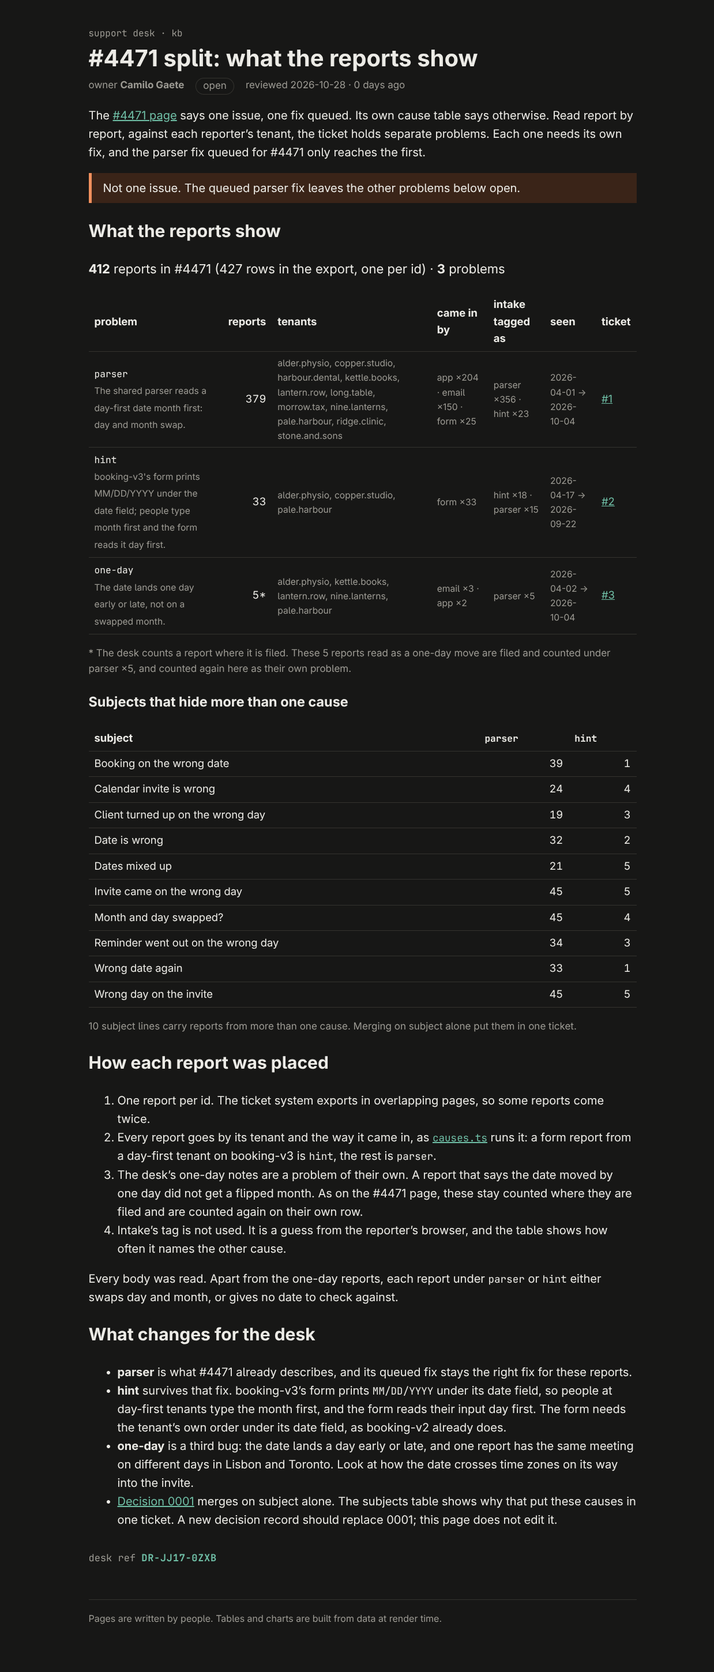
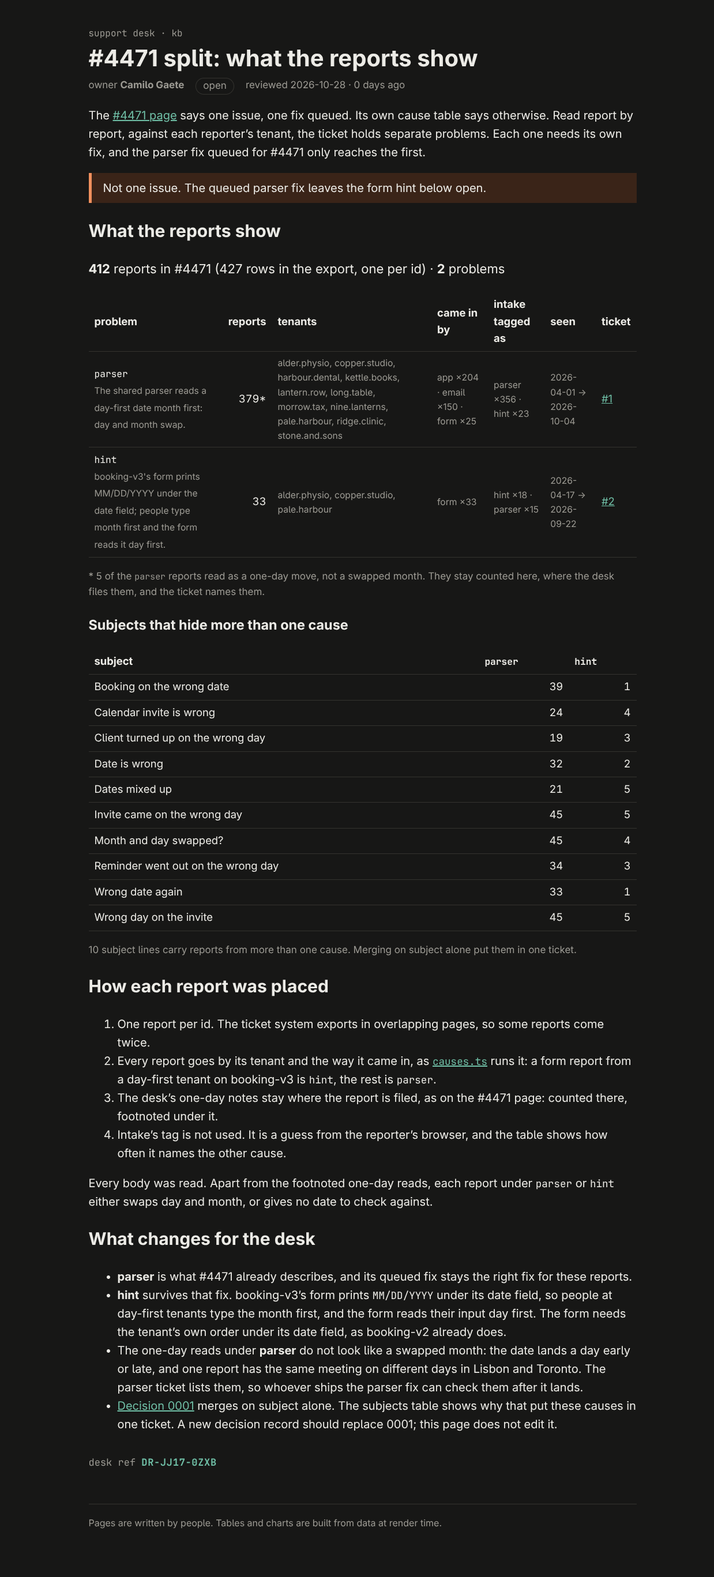
Keep the one-day reads under parser, as the desk files them
#4471's own cause table has two causes; the desk's one-day notes are a
footnote under parser, not a cause. The page now shows parser 379 with
the five one-day reads footnoted, and hint 33.

diff --git a/rendered/kb/incidents/4471-split/index.html b/rendered/kb/incidents/4471-split/index.html
@@ -9,11 +9,11 @@
 		<link href="../../../_app/immutable/chunks/B2Ul7l_u.js" rel="modulepreload">
 		<link href="../../../_app/immutable/chunks/BCPXOG7W.js" rel="modulepreload">
 		<link href="../../../_app/immutable/chunks/Dh1V97Jm.js" rel="modulepreload">
-		<link href="../../../_app/immutable/entry/app.DWi5CgX0.js" rel="modulepreload">
+		<link href="../../../_app/immutable/entry/app.DTWlAb-j.js" rel="modulepreload">
 		<link href="../../../_app/immutable/nodes/0.BurGglGN.js" rel="modulepreload">
 		<link href="../../../_app/immutable/chunks/DK3Fl9T5.js" rel="modulepreload">
-		<link href="../../../_app/immutable/nodes/5.BMO0CVSc.js" rel="modulepreload">
-		<link href="../../../_app/immutable/chunks/DR4YT4Rf.js" rel="modulepreload">
+		<link href="../../../_app/immutable/nodes/5.BNXHBjAK.js" rel="modulepreload">
+		<link href="../../../_app/immutable/chunks/kmhlJnUT.js" rel="modulepreload">
 		<link href="../../../_app/immutable/chunks/BTPwLomz.js" rel="modulepreload">
 		<link href="../../../_app/immutable/chunks/CVBzP17p.js" rel="modulepreload">
 		<link href="../../../_app/immutable/chunks/ChW0qkP-.js" rel="modulepreload">
@@ -25,32 +25,31 @@
   <body data-sveltekit-preload-data="hover">
     <div style="display: contents"><!--[--><!--[--><!--[0--><!--[--><!--[--><!--[-1--><!--[--><div class="kb svelte-e2jw2j"><header><a class="crumb svelte-e2jw2j" href="/kb">support desk · kb</a> <h1 class="svelte-e2jw2j">#4471 split: what the reports show</h1> <p class="meta svelte-e2jw2j"><span>owner <b>Camilo Gaete</b></span> <span class="status open svelte-e2jw2j">open</span> <span class="svelte-e2jw2j">reviewed 2026-10-28 · 0 days ago</span></p></header> <!--[-1--><!--]--> <main><p>The <a href="/kb/incidents/4471">#4471 page</a> says one issue, one fix queued. Its own cause table says
 otherwise. Read report by report, against each reporter’s tenant, the ticket holds separate
-problems. Each one needs its own fix, and the parser fix queued for #4471 only reaches the first.</p> <aside class="warn svelte-17bri61"><!---->Not one issue. The queued parser fix leaves the other problems below open.<!----></aside><!----> <h2>What the reports show</h2> <p class="sum svelte-1op6c6"><strong>412</strong> reports in #4471 (427 rows in the export, one per id) · <strong>3</strong> problems</p> <table><thead><tr><th>problem</th><th>reports</th><th>tenants</th><th>came in by</th><th>intake tagged as</th><th>seen</th><th>ticket</th></tr></thead><tbody><!--[--><tr><td><code>parser</code> <!--[0--><br/><span class="what svelte-1op6c6">The shared parser reads a day-first date month first: day and month swap.</span><!--]--></td><td class="n svelte-1op6c6">379<!--[-1--><!--]--></td><td class="list svelte-1op6c6">alder.physio, copper.studio, harbour.dental, kettle.books, lantern.row, long.table, morrow.tax, nine.lanterns, pale.harbour, ridge.clinic, stone.and.sons</td><td class="list svelte-1op6c6">app ×204 · email ×150 · form ×25</td><td class="list svelte-1op6c6">parser ×356 · hint ×23</td><td class="list svelte-1op6c6">2026-04-01 → 2026-10-04</td><td><!--[0--><a href="https://github.com/CamiloGaete/support-kb-4471/issues/1">#1</a><!--]--></td></tr><tr><td><code>hint</code> <!--[0--><br/><span class="what svelte-1op6c6">booking-v3's form prints MM/DD/YYYY under the date field; people type month first and the form reads it day first.</span><!--]--></td><td class="n svelte-1op6c6">33<!--[-1--><!--]--></td><td class="list svelte-1op6c6">alder.physio, copper.studio, pale.harbour</td><td class="list svelte-1op6c6">form ×33</td><td class="list svelte-1op6c6">hint ×18 · parser ×15</td><td class="list svelte-1op6c6">2026-04-17 → 2026-09-22</td><td><!--[0--><a href="https://github.com/CamiloGaete/support-kb-4471/issues/2">#2</a><!--]--></td></tr><tr><td><code>one-day</code> <!--[0--><br/><span class="what svelte-1op6c6">The date lands one day early or late, not on a swapped month.</span><!--]--></td><td class="n svelte-1op6c6">5<!--[0-->*<!--]--></td><td class="list svelte-1op6c6">alder.physio, kettle.books, lantern.row, nine.lanterns, pale.harbour</td><td class="list svelte-1op6c6">email ×3 · app ×2</td><td class="list svelte-1op6c6">parser ×5</td><td class="list svelte-1op6c6">2026-04-02 → 2026-10-04</td><td><!--[0--><a href="https://github.com/CamiloGaete/support-kb-4471/issues/3">#3</a><!--]--></td></tr><!--]--></tbody></table> <!--[0--><p class="note svelte-1op6c6">* The desk counts a report where it is filed. These 5 reports read as a one-day move are filed and
-    counted under parser ×5, and counted again here as their own problem.</p><!--]--> <h3>Subjects that hide more than one cause</h3> <table><thead><tr><th>subject</th><!--[--><th><code>parser</code></th><th><code>hint</code></th><!--]--></tr></thead><tbody><!--[--><tr><td>Booking on the wrong date</td><!--[--><td class="n svelte-1op6c6">39</td><td class="n svelte-1op6c6">1</td><!--]--></tr><tr><td>Calendar invite is wrong</td><!--[--><td class="n svelte-1op6c6">24</td><td class="n svelte-1op6c6">4</td><!--]--></tr><tr><td>Client turned up on the wrong day</td><!--[--><td class="n svelte-1op6c6">19</td><td class="n svelte-1op6c6">3</td><!--]--></tr><tr><td>Date is wrong</td><!--[--><td class="n svelte-1op6c6">32</td><td class="n svelte-1op6c6">2</td><!--]--></tr><tr><td>Dates mixed up</td><!--[--><td class="n svelte-1op6c6">21</td><td class="n svelte-1op6c6">5</td><!--]--></tr><tr><td>Invite came on the wrong day</td><!--[--><td class="n svelte-1op6c6">45</td><td class="n svelte-1op6c6">5</td><!--]--></tr><tr><td>Month and day swapped?</td><!--[--><td class="n svelte-1op6c6">45</td><td class="n svelte-1op6c6">4</td><!--]--></tr><tr><td>Reminder went out on the wrong day</td><!--[--><td class="n svelte-1op6c6">34</td><td class="n svelte-1op6c6">3</td><!--]--></tr><tr><td>Wrong date again</td><!--[--><td class="n svelte-1op6c6">33</td><td class="n svelte-1op6c6">1</td><!--]--></tr><tr><td>Wrong day on the invite</td><!--[--><td class="n svelte-1op6c6">45</td><td class="n svelte-1op6c6">5</td><!--]--></tr><!--]--></tbody></table> <p class="note svelte-1op6c6">10 subject lines carry reports from more than one cause. Merging on subject alone put them in one ticket.</p><!----> <h2>How each report was placed</h2> <ol><li>One report per id. The ticket system exports in overlapping pages, so some reports come twice.</li> <li>Every report goes by its tenant and the way it came in, as <a href="https://github.com/CamiloGaete/support-kb-4471/blob/main/src/lib/kb/causes.ts" rel="nofollow"><code>causes.ts</code></a> runs it: a form
-report from a day-first tenant on booking-v3 is <code>hint</code>, the rest is <code>parser</code>.</li> <li>The desk’s one-day notes are a problem of their own. A report that says the date moved by one
-day did not get a flipped month. As on the #4471 page, these stay counted where they are filed
-and are counted again on their own row.</li> <li>Intake’s tag is not used. It is a guess from the reporter’s browser, and the table shows how
-often it names the other cause.</li></ol> <p>Every body was read. Apart from the one-day reports, each report under <code>parser</code> or <code>hint</code> either swaps day and month, or gives no date to check against.</p> <h2>What changes for the desk</h2> <ul><li><strong>parser</strong> is what #4471 already describes, and its queued fix stays the right fix for these
+problems. Each one needs its own fix, and the parser fix queued for #4471 only reaches the first.</p> <aside class="warn svelte-17bri61"><!---->Not one issue. The queued parser fix leaves the form hint below open.<!----></aside><!----> <h2>What the reports show</h2> <p class="sum svelte-1op6c6"><strong>412</strong> reports in #4471 (427 rows in the export, one per id) · <strong>2</strong> problems</p> <table><thead><tr><th>problem</th><th>reports</th><th>tenants</th><th>came in by</th><th>intake tagged as</th><th>seen</th><th>ticket</th></tr></thead><tbody><!--[--><tr><td><code>parser</code> <!--[0--><br/><span class="what svelte-1op6c6">The shared parser reads a day-first date month first: day and month swap.</span><!--]--></td><td class="n svelte-1op6c6">379<!--[0-->*<!--]--></td><td class="list svelte-1op6c6">alder.physio, copper.studio, harbour.dental, kettle.books, lantern.row, long.table, morrow.tax, nine.lanterns, pale.harbour, ridge.clinic, stone.and.sons</td><td class="list svelte-1op6c6">app ×204 · email ×150 · form ×25</td><td class="list svelte-1op6c6">parser ×356 · hint ×23</td><td class="list svelte-1op6c6">2026-04-01 → 2026-10-04</td><td><!--[0--><a href="https://github.com/CamiloGaete/support-kb-4471/issues/1">#1</a><!--]--></td></tr><tr><td><code>hint</code> <!--[0--><br/><span class="what svelte-1op6c6">booking-v3's form prints MM/DD/YYYY under the date field; people type month first and the form reads it day first.</span><!--]--></td><td class="n svelte-1op6c6">33<!--[-1--><!--]--></td><td class="list svelte-1op6c6">alder.physio, copper.studio, pale.harbour</td><td class="list svelte-1op6c6">form ×33</td><td class="list svelte-1op6c6">hint ×18 · parser ×15</td><td class="list svelte-1op6c6">2026-04-17 → 2026-09-22</td><td><!--[0--><a href="https://github.com/CamiloGaete/support-kb-4471/issues/2">#2</a><!--]--></td></tr><!--]--></tbody></table> <!--[--><p class="note svelte-1op6c6">* 5 of the <code>parser</code> reports read as a one-day move, not a swapped month. They stay counted
+    here, where the desk files them, and the ticket names them.</p><!--]--> <h3>Subjects that hide more than one cause</h3> <table><thead><tr><th>subject</th><!--[--><th><code>parser</code></th><th><code>hint</code></th><!--]--></tr></thead><tbody><!--[--><tr><td>Booking on the wrong date</td><!--[--><td class="n svelte-1op6c6">39</td><td class="n svelte-1op6c6">1</td><!--]--></tr><tr><td>Calendar invite is wrong</td><!--[--><td class="n svelte-1op6c6">24</td><td class="n svelte-1op6c6">4</td><!--]--></tr><tr><td>Client turned up on the wrong day</td><!--[--><td class="n svelte-1op6c6">19</td><td class="n svelte-1op6c6">3</td><!--]--></tr><tr><td>Date is wrong</td><!--[--><td class="n svelte-1op6c6">32</td><td class="n svelte-1op6c6">2</td><!--]--></tr><tr><td>Dates mixed up</td><!--[--><td class="n svelte-1op6c6">21</td><td class="n svelte-1op6c6">5</td><!--]--></tr><tr><td>Invite came on the wrong day</td><!--[--><td class="n svelte-1op6c6">45</td><td class="n svelte-1op6c6">5</td><!--]--></tr><tr><td>Month and day swapped?</td><!--[--><td class="n svelte-1op6c6">45</td><td class="n svelte-1op6c6">4</td><!--]--></tr><tr><td>Reminder went out on the wrong day</td><!--[--><td class="n svelte-1op6c6">34</td><td class="n svelte-1op6c6">3</td><!--]--></tr><tr><td>Wrong date again</td><!--[--><td class="n svelte-1op6c6">33</td><td class="n svelte-1op6c6">1</td><!--]--></tr><tr><td>Wrong day on the invite</td><!--[--><td class="n svelte-1op6c6">45</td><td class="n svelte-1op6c6">5</td><!--]--></tr><!--]--></tbody></table> <p class="note svelte-1op6c6">10 subject lines carry reports from more than one cause. Merging on subject alone put them in one ticket.</p><!----> <h2>How each report was placed</h2> <ol><li>One report per id. The ticket system exports in overlapping pages, so some reports come twice.</li> <li>Every report goes by its tenant and the way it came in, as <a href="https://github.com/CamiloGaete/support-kb-4471/blob/main/src/lib/kb/causes.ts" rel="nofollow"><code>causes.ts</code></a> runs it: a form
+report from a day-first tenant on booking-v3 is <code>hint</code>, the rest is <code>parser</code>.</li> <li>The desk’s one-day notes stay where the report is filed, as on the #4471 page: counted there,
+footnoted under it.</li> <li>Intake’s tag is not used. It is a guess from the reporter’s browser, and the table shows how
+often it names the other cause.</li></ol> <p>Every body was read. Apart from the footnoted one-day reads, each report under <code>parser</code> or <code>hint</code> either swaps day and month, or gives no date to check against.</p> <h2>What changes for the desk</h2> <ul><li><strong>parser</strong> is what #4471 already describes, and its queued fix stays the right fix for these
 reports.</li> <li><strong>hint</strong> survives that fix. booking-v3’s form prints <code>MM/DD/YYYY</code> under its date field, so
 people at day-first tenants type the month first, and the form reads their input day first.
-The form needs the tenant’s own order under its date field, as booking-v2 already does.</li> <li><strong>one-day</strong> is a third bug: the date lands a day early or late, and one report has the same
-meeting on different days in Lisbon and Toronto. Look at how the date crosses time zones on
-its way into the invite.</li> <li><a href="/kb/decisions/0001-dedupe-by-subject">Decision 0001</a> merges on subject alone. The subjects
+The form needs the tenant’s own order under its date field, as booking-v2 already does.</li> <li>The one-day reads under <strong>parser</strong> do not look like a swapped month: the date lands a day
+early or late, and one report has the same meeting on different days in Lisbon and Toronto.
+The parser ticket lists them, so whoever ships the parser fix can check them after it lands.</li> <li><a href="/kb/decisions/0001-dedupe-by-subject">Decision 0001</a> merges on subject alone. The subjects
 table shows why that put these causes in one ticket. A new decision record should replace
 0001; this page does not edit it.</li></ul> <!--[0--><p class="stamp svelte-1280m42">desk ref <b class="svelte-1280m42">DR-JJ17-0ZXB</b></p><!--]--><!----><!----></main> <footer class="svelte-e2jw2j">Pages are written by people. Tables and charts are built from data at render time.</footer></div><!--]--><!--]--><!--]--><!----><!--]--><!--]--><!--]--><!----> <!--[-1--><!--]--><!--]-->
 			
 			<script>
 				{
-					__sveltekit_miusty = {
+					__sveltekit_134p8fo = {
 						base: new URL("../../..", location).pathname.slice(0, -1),
-						version: "1793218786973"
+						version: "1793218984773"
 					};
 
 					const element = document.currentScript.parentElement;
 
 					import("../../../_app/immutable/entry/start.CH5w6lId.js").then(async (kit) => {
-						kit.init(__sveltekit_miusty);
-						const app = await import("../../../_app/immutable/entry/app.DWi5CgX0.js");
+						kit.init(__sveltekit_134p8fo);
+						const app = await import("../../../_app/immutable/entry/app.DTWlAb-j.js");
 						kit.start(app, element, {
 							node_ids: [0, 5],
 							data: [null,null],

diff --git a/rendered/_app/immutable/chunks/kmhlJnUT.js b/rendered/_app/immutable/chunks/kmhlJnUT.js
@@ -1,0 +1,14 @@
+import{t as e}from"./DK3Fl9T5.js";import{E as t,F as n,H as r,I as i,K as a,L as o,N as s,O as c,R as l,S as u,T as d,U as f,W as p,_ as m,c as h,h as g,k as _,n as v,q as y,r as b,t as x,w as S}from"./BCPXOG7W.js";import{t as C}from"./BTPwLomz.js";import{n as w,t as T}from"./CVBzP17p.js";import{i as E,o as D,r as O,s as k,t as A,u as j}from"./ChW0qkP-.js";var M={parser:`The shared parser reads a day-first date month first: day and month swap.`,hint:`booking-v3's form prints MM/DD/YYYY under the date field; people type month first and the form reads it day first.`},N=(e,t)=>e.reduce((e,n)=>({...e,[t(n)]:(e[t(n)]??0)+1}),{});function P(e,t,n,r){let i=j(e).filter(e=>e.mergedInto===t),a=D(i,n),o=new Map(a.flatMap(e=>e.reports.map(t=>[t.id,e.cause]))),s=a.map(e=>({problem:e.cause,reports:e.reports,tenants:[...new Set(e.reports.map(e=>e.tenant))].sort(),channels:N(e.reports,e=>e.channel),taggedAs:e.taggedAs,firstSeen:e.firstSeen,lastSeen:e.lastSeen,readAsOneDay:k(e,r)})),c=new Map;for(let e of i){let t=c.get(e.subject)??{},n=o.get(e.id);t[n]=(t[n]??0)+1,c.set(e.subject,t)}let l=[...c.entries()].filter(([,e])=>Object.keys(e).length>1).map(([e,t])=>({subject:e,byCause:t})).sort((e,t)=>e.subject.localeCompare(t.subject));return{rows:e.filter(e=>e.mergedInto===t).length,unique:i.length,groups:s,sharedSubjects:l}}var F=t(`<br/><span class="what svelte-1op6c6"> </span>`,1),I=t(`<a> </a>`),ee=t(`<span class="none svelte-1op6c6">none yet</span>`),te=t(`<tr><td><code> </code> <!></td><td class="n svelte-1op6c6"> <!></td><td class="list svelte-1op6c6"> </td><td class="list svelte-1op6c6"> </td><td class="list svelte-1op6c6"> </td><td class="list svelte-1op6c6"> </td><td><!></td></tr>`),L=t(`<p class="note svelte-1op6c6"> <code> </code> reports read as a one-day move, not a swapped month. They stay counted
+    here, where the desk files them, and the ticket names them.</p>`),R=t(`<th><code> </code></th>`),z=t(`<td class="n svelte-1op6c6"> </td>`),B=t(`<tr><td> </td><!></tr>`),V=t(`<p class="sum svelte-1op6c6"><strong> </strong> <strong> </strong> </p> <table><thead><tr><th>problem</th><th>reports</th><th>tenants</th><th>came in by</th><th>intake tagged as</th><th>seen</th><th>ticket</th></tr></thead><tbody></tbody></table> <!> <h3>Subjects that hide more than one cause</h3> <table><thead><tr><th>subject</th><!></tr></thead><tbody></tbody></table> <p class="note svelte-1op6c6"> </p>`,1);function H(e,t){p(t,!0);let d=v(t,`issues`,19,()=>({})),b=r(()=>P(w,t.ticket,O,T.oneDayMove)),x=e=>Object.entries(e).sort((e,t)=>t[1]-e[1]).map(([e,t])=>`${e} ×${t}`).join(` · `),C=e=>`#${e.split(`/`).pop()}`,D=r(()=>E.filter(e=>_(b).groups.some(t=>t.problem===e)));var k=V(),A=i(k),j=n(A),N=o(j,!0),H=l(j),U=l(H),W=o(U,!0),G=l(U);y(A);var K=l(A,2),q=l(n(K));g(q,21,()=>_(b).groups,e=>e.problem,(e,t)=>{var r=te(),a=n(r),f=n(a),p=o(f,!0),g=l(f,2),v=e=>{var n=F(),r=l(i(n)),a=o(r,!0);s(()=>u(a,M[_(t).problem])),S(e,n)};m(g,e=>{_(t).problem!==`unplaced`&&e(v)}),y(a);var b=l(a),w=n(b,!0),T=l(w),E=e=>{var t=c(`*`);S(e,t)};m(T,e=>{_(t).readAsOneDay&&e(E)}),y(b);var D=l(b),O=o(D,!0),k=l(D),A=o(k,!0),j=l(k),N=o(j,!0),P=l(j),L=o(P),R=l(P),z=n(R),B=e=>{var n=I(),r=o(n,!0);s(e=>{h(n,`href`,d()[_(t).problem]),u(r,e)},[()=>C(d()[_(t).problem])]),S(e,n)},V=e=>{var t=ee();S(e,t)};m(z,e=>{d()[_(t).problem]?e(B):e(V,-1)}),y(R),y(r),s((e,n,r)=>{u(p,_(t).problem),u(w,_(t).reports.length),u(O,e),u(A,n),u(N,r),u(L,`${_(t).firstSeen??``} → ${_(t).lastSeen??``}`)},[()=>_(t).tenants.join(`, `),()=>x(_(t).channels),()=>x(_(t).taggedAs)]),S(e,r)}),y(q),y(K);var J=l(K,2);g(J,17,()=>_(b).groups.filter(e=>e.readAsOneDay),e=>e.problem,(e,t)=>{var r=L(),i=n(r),c=l(i),d=o(c,!0);a(),y(r),s(()=>{u(i,`* ${_(t).readAsOneDay??``} of the `),u(d,_(t).problem)}),S(e,r)});var Y=l(J,4),X=n(Y),Z=n(X),ne=l(n(Z));g(ne,16,()=>_(D),e=>e,(e,t)=>{var r=R(),i=n(r),a=o(i,!0);y(r),s(()=>u(a,t)),S(e,r)}),y(Z),y(X);var Q=l(X);g(Q,21,()=>_(b).sharedSubjects,e=>e.subject,(e,t)=>{var r=B(),i=n(r),a=o(i,!0),c=l(i);g(c,16,()=>_(D),e=>e,(e,n)=>{var r=z(),i=o(r,!0);s(()=>u(i,_(t).byCause[n]??``)),S(e,r)}),y(r),s(()=>u(a,_(t).subject)),S(e,r)}),y(Q),y(Y);var re=l(Y,2),ie=o(re);s(()=>{u(N,_(b).unique),u(H,` reports in #${t.ticket??``} (${_(b).rows??``} rows in the export, one per id) · `),u(W,_(b).groups.length),u(G,` ${_(b).groups.length===1?`problem`:`problems`}`),u(ie,`${_(b).sharedSubjects.length??``} subject lines carry reports from more than one cause. Merging on subject alone put them in one ticket.`)}),S(e,k),f()}var U=`0123456789ABCDEFGHJKMNPQRSTVWXYZ`;function W(e,t){let n=t>>>0;for(let t=0;t<e.length;t++)n^=e.charCodeAt(t),n=Math.imul(n,16777619)>>>0;return n}function G(e){let t=e.trim(),n=W(t,2166136261),r=W(t,2654435769),i=BigInt(n)<<8n|BigInt(r&255),a=``;for(let e=0;e<8;e++)a=U[Number(i&31n)]+a,i>>=5n;return`DR-${a.slice(0,4)}-${a.slice(4)}`}var K=t(`<p class="stamp svelte-1280m42">desk ref <b class="svelte-1280m42"> </b></p>`),q=t(`<p class="stamp missing svelte-1280m42">no desk ref: this page isn't signed (no <code>signature</code> in its frontmatter)</p>`);function J(e,t){p(t,!0);let a=r(()=>t.signature?G(t.signature):null);var c=d(),h=i(c),g=e=>{var t=K(),r=l(n(t)),i=o(r,!0);y(t),s(()=>u(i,_(a))),S(e,t)},v=e=>{var t=q();S(e,t)};m(h,e=>{_(a)?e(g):e(v,-1)}),S(e,c),f()}var Y=e({default:()=>$,metadata:()=>X}),X={layout:`runbook`,title:`#4471 split: what the reports show`,owner:`Camilo Gaete`,status:`open`,reviewed:`2026-10-28T00:00:00.000Z`,signature:`v1.eyJzdWIiOiIzMDIiLCJhdWQiOiJjaGFsbGVuZ2U6d2hhdC1pdC1zaG93cyIsImlhdCI6MTc5MzIxODI1NywiZXhwIjoxNzkzMzA0NjU3fQ.ib5O7nSz4A4s80pjVwiKF3khW6C-5l8RFRv_YjpKHjs`},{layout:Z,title:ne,owner:Q,status:re,reviewed:ie,signature:ae}=X,oe=t(`<p>The <a href="/kb/incidents/4471">#4471 page</a> says one issue, one fix queued. Its own cause table says
+otherwise. Read report by report, against each reporter’s tenant, the ticket holds separate
+problems. Each one needs its own fix, and the parser fix queued for #4471 only reaches the first.</p> <!> <h2>What the reports show</h2> <!> <h2>How each report was placed</h2> <ol><li>One report per id. The ticket system exports in overlapping pages, so some reports come twice.</li> <li>Every report goes by its tenant and the way it came in, as <a href="https://github.com/CamiloGaete/support-kb-4471/blob/main/src/lib/kb/causes.ts" rel="nofollow"><code>causes.ts</code></a> runs it: a form
+report from a day-first tenant on booking-v3 is <code>hint</code>, the rest is <code>parser</code>.</li> <li>The desk’s one-day notes stay where the report is filed, as on the #4471 page: counted there,
+footnoted under it.</li> <li>Intake’s tag is not used. It is a guess from the reporter’s browser, and the table shows how
+often it names the other cause.</li></ol> <p>Every body was read. Apart from the footnoted one-day reads, each report under <code>parser</code> or <code>hint</code> either swaps day and month, or gives no date to check against.</p> <h2>What changes for the desk</h2> <ul><li><strong>parser</strong> is what #4471 already describes, and its queued fix stays the right fix for these
+reports.</li> <li><strong>hint</strong> survives that fix. booking-v3’s form prints <code>MM/DD/YYYY</code> under its date field, so
+people at day-first tenants type the month first, and the form reads their input day first.
+The form needs the tenant’s own order under its date field, as booking-v2 already does.</li> <li>The one-day reads under <strong>parser</strong> do not look like a swapped month: the date lands a day
+early or late, and one report has the same meeting on different days in Lisbon and Toronto.
+The parser ticket lists them, so whoever ships the parser fix can check them after it lands.</li> <li><a href="/kb/decisions/0001-dedupe-by-subject">Decision 0001</a> merges on subject alone. The subjects
+table shows why that put these causes in one ticket. A new decision record should replace
+0001; this page does not edit it.</li></ul> <!>`,1);function $(e,t){let n=x(t,[`children`,`$$slots`,`$$events`,`$$legacy`]),r=`https://github.com/CamiloGaete/support-kb-4471`;C(e,b(()=>n,()=>X,{children:(e,t)=>{var n=oe(),o=l(i(n),2);A(o,{kind:`warn`,children:(e,t)=>{a();var n=c(`Not one issue. The queued parser fix leaves the form hint below open.`);S(e,n)},$$slots:{default:!0}});var s=l(o,4);H(s,{ticket:4471,issues:{parser:`${r}/issues/1`,hint:`${r}/issues/2`}}),J(l(s,12),{get signature(){return ae}}),S(e,n)},$$slots:{default:!0}}))}export{$ as n,Y as t};

diff --git a/src/lib/kb/problems.ts b/src/lib/kb/problems.ts
@@ -1,19 +1,15 @@
-// What #4471 holds, problem by problem. causes.ts sorts a report by its tenant; the desk's notes add
-// what it read in the body: a one-day move is not a flipped month. Like CauseTable, a noted report
-// stays counted where it is filed, and the one-day row counts it again on its own.
-import { CAUSES, groupByCause, uniqueById, type Cause, type Report, type Tenant } from '#lib/kb/causes';
+// What #4471 holds, problem by problem: one per cause, as causes.ts sorts a report by its tenant.
+// Like CauseTable, a report the desk read differently (desk-notes.json) stays counted where it is
+// filed, and is footnoted under it.
+import { groupByCause, readAs, uniqueById, type CauseGroup, type Cause, type Report, type Tenant } from '#lib/kb/causes';
 
-export type Problem = Cause | 'one-day';
-export const PROBLEMS: readonly Problem[] = [...CAUSES, 'one-day'];
-
-export const WHAT_GOES_WRONG: Record<Problem, string> = {
+export const WHAT_GOES_WRONG: Record<Cause, string> = {
   parser: 'The shared parser reads a day-first date month first: day and month swap.',
   hint: "booking-v3's form prints MM/DD/YYYY under the date field; people type month first and the form reads it day first.",
-  'one-day': 'The date lands one day early or late, not on a swapped month.',
 };
 
 export type ProblemGroup = {
-  problem: Problem | 'unplaced';
+  problem: Cause | 'unplaced';
   reports: Report[];
   tenants: string[];
   channels: Record<string, number>;
@@ -21,8 +17,8 @@ export type ProblemGroup = {
   taggedAs: Record<string, number>;
   firstSeen: string;
   lastSeen: string;
-  // For the one-day row: the cause each of its reports is filed and counted under.
-  filedUnder: Record<string, number>;
+  // Of these, reports the desk read as a one-day move instead of a swapped month.
+  readAsOneDay: number;
 };
 
 export type Split = {
@@ -46,22 +42,18 @@ export function splitTicket(
   const causeGroups = groupByCause(merged, tenantOf);
   const causeOfReport = new Map(causeGroups.flatMap((g) => g.reports.map((r) => [r.id, g.cause] as const)));
 
-  const group = (problem: ProblemGroup['problem'], rs: Report[]): ProblemGroup => {
-    const days = rs.map((r) => r.receivedAt.slice(0, 10)).sort();
-    return {
-      problem,
-      reports: rs,
-      tenants: [...new Set(rs.map((r) => r.tenant))].sort(),
-      channels: tally(rs, (r) => r.channel),
-      taggedAs: tally(rs, (r) => r.meta.intakeTag),
-      firstSeen: days[0],
-      lastSeen: days[days.length - 1],
-      filedUnder: problem === 'one-day' ? tally(rs, (r) => causeOfReport.get(r.id)!) : {},
-    };
-  };
+  const group = (g: CauseGroup): ProblemGroup => ({
+    problem: g.cause,
+    reports: g.reports,
+    tenants: [...new Set(g.reports.map((r) => r.tenant))].sort(),
+    channels: tally(g.reports, (r) => r.channel),
+    taggedAs: g.taggedAs,
+    firstSeen: g.firstSeen,
+    lastSeen: g.lastSeen,
+    readAsOneDay: readAs(g, oneDayMove),
+  });
 
-  const oneDay = merged.filter((r) => oneDayMove.includes(r.id));
-  const groups = [...causeGroups.map((g) => group(g.cause, g.reports)), ...(oneDay.length ? [group('one-day', oneDay)] : [])];
+  const groups = causeGroups.map(group);
 
   const bySubject = new Map<string, Partial<Record<Cause | 'unplaced', number>>>();
   for (const r of merged) {

diff --git a/rendered/_app/immutable/nodes/2.7iZpjp-K.js b/rendered/_app/immutable/nodes/2.7iZpjp-K.js
@@ -1,0 +1,2 @@
+import{E as e,F as t,I as n,K as r,L as i,N as a,R as o,S as s,U as c,W as l,c as u,d,h as f,i as p,k as m,q as h,r as g,t as _,w as v}from"../chunks/BCPXOG7W.js";import{n as y,r as b,t as x}from"../chunks/BTPwLomz.js";import{t as S}from"../chunks/YX22L_Ud.js";import{t as C}from"../chunks/BBi_nMUZ.js";import{t as w}from"../chunks/kmhlJnUT.js";import{t as T}from"../chunks/C38Lczqj.js";var E=e(`<tr><td><a> </a></td><td> </td><td> </td><td> </td></tr>`),D=e(`<table><thead><tr><th>page</th><th>owner</th><th>status</th><th>reviewed</th></tr></thead><tbody></tbody></table>`);function O(e,n){l(n,!1);let r=Object.entries(Object.assign({"/src/routes/kb/decisions/0001-dedupe-by-subject/+page.svx":S,"/src/routes/kb/incidents/4471/+page.svx":C,"/src/routes/kb/incidents/4471-split/+page.svx":w,"/src/routes/kb/triage/dedupe/+page.svx":T})).map(([e,t])=>({href:e.replace(`/src/routes`,``).replace(`/+page.svx`,``),...t.metadata})).sort((e,t)=>e.href.localeCompare(t.href));p();var g=D(),_=o(t(g));f(_,5,()=>r,e=>e.href,(e,n)=>{var r=E(),c=t(r),l=t(c),f=i(l,!0);h(c);var p=o(c),g=i(p,!0),_=o(p),x=i(_,!0),S=o(_);let C;var w=i(S,!0);h(r),a((e,t)=>{u(l,`href`,m(n).href),s(f,m(n).title),s(g,m(n).owner),s(x,m(n).status),C=d(S,1,`svelte-tbc1ha`,null,C,{stale:e}),s(w,t)},[()=>y(m(n).reviewed)>180,()=>b(m(n).reviewed)]),v(e,r)}),h(_),h(g),v(e,g),c()}var k={layout:`runbook`,title:`Support knowledge base`,owner:`support desk`,status:`living`,reviewed:`2026-09-28T00:00:00.000Z`},{layout:A,title:j,owner:M,status:N,reviewed:P}=k,F=e(`<p>What the support desk knows, kept next to the code that knows it. One desk, every product: <code>sched-prod</code> (calendar invites for about 300k people) and the rest. When something breaks, the reports land here first.</p> <p>Start with <a href="/kb/triage/dedupe">triage</a> if you are new on the desk.</p> <h2>Pages</h2> <!> <h2>Writing a page</h2> <p>Keep the words here and the logic in <code>src/lib</code>. A number that can be computed should be
+computed by a component, not typed into a paragraph.</p>`,1);function I(e,t){let i=_(t,[`children`,`$$slots`,`$$events`,`$$legacy`]);x(e,g(()=>i,()=>k,{children:(e,t)=>{var i=F();O(o(n(i),6),{}),r(4),v(e,i)},$$slots:{default:!0}}))}export{I as component};

diff --git a/rendered/kb/index.html b/rendered/kb/index.html
@@ -9,16 +9,16 @@
 		<link href="../_app/immutable/chunks/B2Ul7l_u.js" rel="modulepreload">
 		<link href="../_app/immutable/chunks/BCPXOG7W.js" rel="modulepreload">
 		<link href="../_app/immutable/chunks/Dh1V97Jm.js" rel="modulepreload">
-		<link href="../_app/immutable/entry/app.DWi5CgX0.js" rel="modulepreload">
+		<link href="../_app/immutable/entry/app.DTWlAb-j.js" rel="modulepreload">
 		<link href="../_app/immutable/nodes/0.BurGglGN.js" rel="modulepreload">
 		<link href="../_app/immutable/chunks/DK3Fl9T5.js" rel="modulepreload">
-		<link href="../_app/immutable/nodes/2.CZrTKKOC.js" rel="modulepreload">
+		<link href="../_app/immutable/nodes/2.7iZpjp-K.js" rel="modulepreload">
 		<link href="../_app/immutable/chunks/BTPwLomz.js" rel="modulepreload">
 		<link href="../_app/immutable/chunks/YX22L_Ud.js" rel="modulepreload">
 		<link href="../_app/immutable/chunks/BBi_nMUZ.js" rel="modulepreload">
 		<link href="../_app/immutable/chunks/CVBzP17p.js" rel="modulepreload">
 		<link href="../_app/immutable/chunks/ChW0qkP-.js" rel="modulepreload">
-		<link href="../_app/immutable/chunks/DR4YT4Rf.js" rel="modulepreload">
+		<link href="../_app/immutable/chunks/kmhlJnUT.js" rel="modulepreload">
 		<link href="../_app/immutable/chunks/C38Lczqj.js" rel="modulepreload">
 		<!--e2jw2j--><!----><title>Support knowledge base · support kb</title>
 		<link href="../_app/immutable/assets/runbook.COyw0cbZ.css" rel="stylesheet">
@@ -34,16 +34,16 @@ computed by a component, not typed into a paragraph.</p><!----></main> <footer c
 			
 			<script>
 				{
-					__sveltekit_miusty = {
+					__sveltekit_134p8fo = {
 						base: new URL("..", location).pathname.slice(0, -1),
-						version: "1793218786973"
+						version: "1793218984773"
 					};
 
 					const element = document.currentScript.parentElement;
 
 					import("../_app/immutable/entry/start.CH5w6lId.js").then(async (kit) => {
-						kit.init(__sveltekit_miusty);
-						const app = await import("../_app/immutable/entry/app.DWi5CgX0.js");
+						kit.init(__sveltekit_134p8fo);
+						const app = await import("../_app/immutable/entry/app.DTWlAb-j.js");
 						kit.start(app, element, {
 							node_ids: [0, 2],
 							data: [null,null],

diff --git a/rendered/_app/immutable/entry/app.DTWlAb-j.js b/rendered/_app/immutable/entry/app.DTWlAb-j.js
@@ -1,0 +1,2 @@
+const __vite__mapDeps=(i,m=__vite__mapDeps,d=(m.f||(m.f=["../nodes/0.BurGglGN.js","../chunks/DK3Fl9T5.js","../chunks/BCPXOG7W.js","../nodes/1.mOwa9YdW.js","../chunks/Dh1V97Jm.js","./payload.DSmR2FwN.js","../nodes/2.7iZpjp-K.js","../chunks/BTPwLomz.js","../assets/runbook.COyw0cbZ.css","../chunks/YX22L_Ud.js","../chunks/BBi_nMUZ.js","../chunks/CVBzP17p.js","../chunks/ChW0qkP-.js","../assets/Callout.AbLv9dM_.css","../assets/_page.D56XP2ro.css","../chunks/kmhlJnUT.js","../assets/_page.lkliybL6.css","../chunks/C38Lczqj.js","../assets/_page.DO6Yid7X.css","../assets/2.Bt0MwIZg.css","../nodes/3.DRxPfvn3.js","../nodes/4.CuAZH9CW.js","../nodes/5.BNXHBjAK.js","../nodes/6.BDxI4Eov.js"])))=>i.map(i=>d[i]);
+import{t as e}from"../chunks/CRzLMJPS.js";var t={},n=[()=>e(()=>import(`../nodes/0.BurGglGN.js`),__vite__mapDeps([0,1,2]),import.meta.url),()=>e(()=>import(`../nodes/1.mOwa9YdW.js`),__vite__mapDeps([3,2,4,5]),import.meta.url),()=>e(()=>import(`../nodes/2.7iZpjp-K.js`),__vite__mapDeps([6,2,7,8,9,1,10,11,12,13,14,15,16,17,18,19]),import.meta.url),()=>e(()=>import(`../nodes/3.DRxPfvn3.js`),__vite__mapDeps([20,9,1,2,7,8]),import.meta.url),()=>e(()=>import(`../nodes/4.CuAZH9CW.js`),__vite__mapDeps([21,10,1,2,7,8,11,12,13,14]),import.meta.url),()=>e(()=>import(`../nodes/5.BNXHBjAK.js`),__vite__mapDeps([22,15,1,2,7,8,11,12,13,16]),import.meta.url),()=>e(()=>import(`../nodes/6.BDxI4Eov.js`),__vite__mapDeps([23,17,1,2,7,8,12,13,18]),import.meta.url)],r=[],i={"/kb":[2],"/kb/decisions/0001-dedupe-by-subject":[3],"/kb/incidents/4471-split":[5],"/kb/incidents/4471":[4],"/kb/triage/dedupe":[6]},a={handleError:(({kind:e,error:t})=>{e===`unknown`&&console.error(t)}),reroute:(()=>{}),transport:{}},o=Object.fromEntries(Object.entries(a.transport).map(([e,t])=>[e,t.decode])),s=Object.fromEntries(Object.entries(a.transport).map(([e,t])=>[e,t.encode])),c=!1,l=(e,t)=>o[e](t),u=()=>e(()=>import(`../chunks/Bjy-W4x2.js`).then(e=>e.default),[],import.meta.url);export{l as decode,o as decoders,i as dictionary,s as encoders,u as get_error_template,c as hash,a as hooks,t as matchers,n as nodes,r as server_loads};

diff --git a/rendered/kb/decisions/0001-dedupe-by-subject/index.html b/rendered/kb/decisions/0001-dedupe-by-subject/index.html
@@ -9,7 +9,7 @@
 		<link href="../../../_app/immutable/chunks/B2Ul7l_u.js" rel="modulepreload">
 		<link href="../../../_app/immutable/chunks/BCPXOG7W.js" rel="modulepreload">
 		<link href="../../../_app/immutable/chunks/Dh1V97Jm.js" rel="modulepreload">
-		<link href="../../../_app/immutable/entry/app.DWi5CgX0.js" rel="modulepreload">
+		<link href="../../../_app/immutable/entry/app.DTWlAb-j.js" rel="modulepreload">
 		<link href="../../../_app/immutable/nodes/0.BurGglGN.js" rel="modulepreload">
 		<link href="../../../_app/immutable/chunks/DK3Fl9T5.js" rel="modulepreload">
 		<link href="../../../_app/immutable/nodes/3.DRxPfvn3.js" rel="modulepreload">
@@ -26,16 +26,16 @@ engineering merges them later.</li></ul><!----></main> <footer class="svelte-e2j
 			
 			<script>
 				{
-					__sveltekit_miusty = {
+					__sveltekit_134p8fo = {
 						base: new URL("../../..", location).pathname.slice(0, -1),
-						version: "1793218786973"
+						version: "1793218984773"
 					};
 
 					const element = document.currentScript.parentElement;
 
 					import("../../../_app/immutable/entry/start.CH5w6lId.js").then(async (kit) => {
-						kit.init(__sveltekit_miusty);
-						const app = await import("../../../_app/immutable/entry/app.DWi5CgX0.js");
+						kit.init(__sveltekit_134p8fo);
+						const app = await import("../../../_app/immutable/entry/app.DTWlAb-j.js");
 						kit.start(app, element, {
 							node_ids: [0, 3],
 							data: [null,null],

diff --git a/rendered/kb/incidents/4471/index.html b/rendered/kb/incidents/4471/index.html
@@ -9,7 +9,7 @@
 		<link href="../../../_app/immutable/chunks/B2Ul7l_u.js" rel="modulepreload">
 		<link href="../../../_app/immutable/chunks/BCPXOG7W.js" rel="modulepreload">
 		<link href="../../../_app/immutable/chunks/Dh1V97Jm.js" rel="modulepreload">
-		<link href="../../../_app/immutable/entry/app.DWi5CgX0.js" rel="modulepreload">
+		<link href="../../../_app/immutable/entry/app.DTWlAb-j.js" rel="modulepreload">
 		<link href="../../../_app/immutable/nodes/0.BurGglGN.js" rel="modulepreload">
 		<link href="../../../_app/immutable/chunks/DK3Fl9T5.js" rel="modulepreload">
 		<link href="../../../_app/immutable/nodes/4.CuAZH9CW.js" rel="modulepreload">
@@ -29,16 +29,16 @@ first. The fix is queued.</p> <aside class="note svelte-17bri61"><!---->Known. O
 			
 			<script>
 				{
-					__sveltekit_miusty = {
+					__sveltekit_134p8fo = {
 						base: new URL("../../..", location).pathname.slice(0, -1),
-						version: "1793218786973"
+						version: "1793218984773"
 					};
 
 					const element = document.currentScript.parentElement;
 
 					import("../../../_app/immutable/entry/start.CH5w6lId.js").then(async (kit) => {
-						kit.init(__sveltekit_miusty);
-						const app = await import("../../../_app/immutable/entry/app.DWi5CgX0.js");
+						kit.init(__sveltekit_134p8fo);
+						const app = await import("../../../_app/immutable/entry/app.DTWlAb-j.js");
 						kit.start(app, element, {
 							node_ids: [0, 4],
 							data: [null,null],

diff --git a/rendered/kb/triage/dedupe/index.html b/rendered/kb/triage/dedupe/index.html
@@ -9,7 +9,7 @@
 		<link href="../../../_app/immutable/chunks/B2Ul7l_u.js" rel="modulepreload">
 		<link href="../../../_app/immutable/chunks/BCPXOG7W.js" rel="modulepreload">
 		<link href="../../../_app/immutable/chunks/Dh1V97Jm.js" rel="modulepreload">
-		<link href="../../../_app/immutable/entry/app.DWi5CgX0.js" rel="modulepreload">
+		<link href="../../../_app/immutable/entry/app.DTWlAb-j.js" rel="modulepreload">
 		<link href="../../../_app/immutable/nodes/0.BurGglGN.js" rel="modulepreload">
 		<link href="../../../_app/immutable/chunks/DK3Fl9T5.js" rel="modulepreload">
 		<link href="../../../_app/immutable/nodes/6.BDxI4Eov.js" rel="modulepreload">
@@ -29,16 +29,16 @@ anything else.<!----></aside><!----> <h2>Try it</h2> <div class="try svelte-gq0h
 			
 			<script>
 				{
-					__sveltekit_miusty = {
+					__sveltekit_134p8fo = {
 						base: new URL("../../..", location).pathname.slice(0, -1),
-						version: "1793218786973"
+						version: "1793218984773"
 					};
 
 					const element = document.currentScript.parentElement;
 
 					import("../../../_app/immutable/entry/start.CH5w6lId.js").then(async (kit) => {
-						kit.init(__sveltekit_miusty);
-						const app = await import("../../../_app/immutable/entry/app.DWi5CgX0.js");
+						kit.init(__sveltekit_134p8fo);
+						const app = await import("../../../_app/immutable/entry/app.DTWlAb-j.js");
 						kit.start(app, element, {
 							node_ids: [0, 6],
 							data: [null,null],

diff --git a/src/lib/kb/ProblemTable.svelte b/src/lib/kb/ProblemTable.svelte
@@ -16,7 +16,6 @@
       .join(' · ');
   const issueNumber = (url: string) => `#${url.split('/').pop()}`;
   const columns = $derived(CAUSES.filter((c) => split.groups.some((g) => g.problem === c)));
-  const oneDay = $derived(split.groups.find((g) => g.problem === 'one-day'));
 </script>
 
 <p class="sum">
@@ -36,7 +35,7 @@
           <code>{g.problem}</code>
           {#if g.problem !== 'unplaced'}<br /><span class="what">{WHAT_GOES_WRONG[g.problem]}</span>{/if}
         </td>
-        <td class="n">{g.reports.length}{#if g.problem === 'one-day'}*{/if}</td>
+        <td class="n">{g.reports.length}{#if g.readAsOneDay}*{/if}</td>
         <td class="list">{g.tenants.join(', ')}</td>
         <td class="list">{counts(g.channels)}</td>
         <td class="list">{counts(g.taggedAs)}</td>
@@ -49,12 +48,12 @@
   </tbody>
 </table>
 
-{#if oneDay}
+{#each split.groups.filter((g) => g.readAsOneDay) as g (g.problem)}
   <p class="note">
-    * The desk counts a report where it is filed. These {oneDay.reports.length} reports read as a one-day move are filed and
-    counted under {counts(oneDay.filedUnder)}, and counted again here as their own problem.
+    * {g.readAsOneDay} of the <code>{g.problem}</code> reports read as a one-day move, not a swapped month. They stay counted
+    here, where the desk files them, and the ticket names them.
   </p>
-{/if}
+{/each}
 
 <h3>Subjects that hide more than one cause</h3>
 

diff --git a/rendered/_app/immutable/nodes/5.BNXHBjAK.js b/rendered/_app/immutable/nodes/5.BNXHBjAK.js
@@ -1,0 +1,1 @@
+export{n as component}from"../chunks/kmhlJnUT.js";
